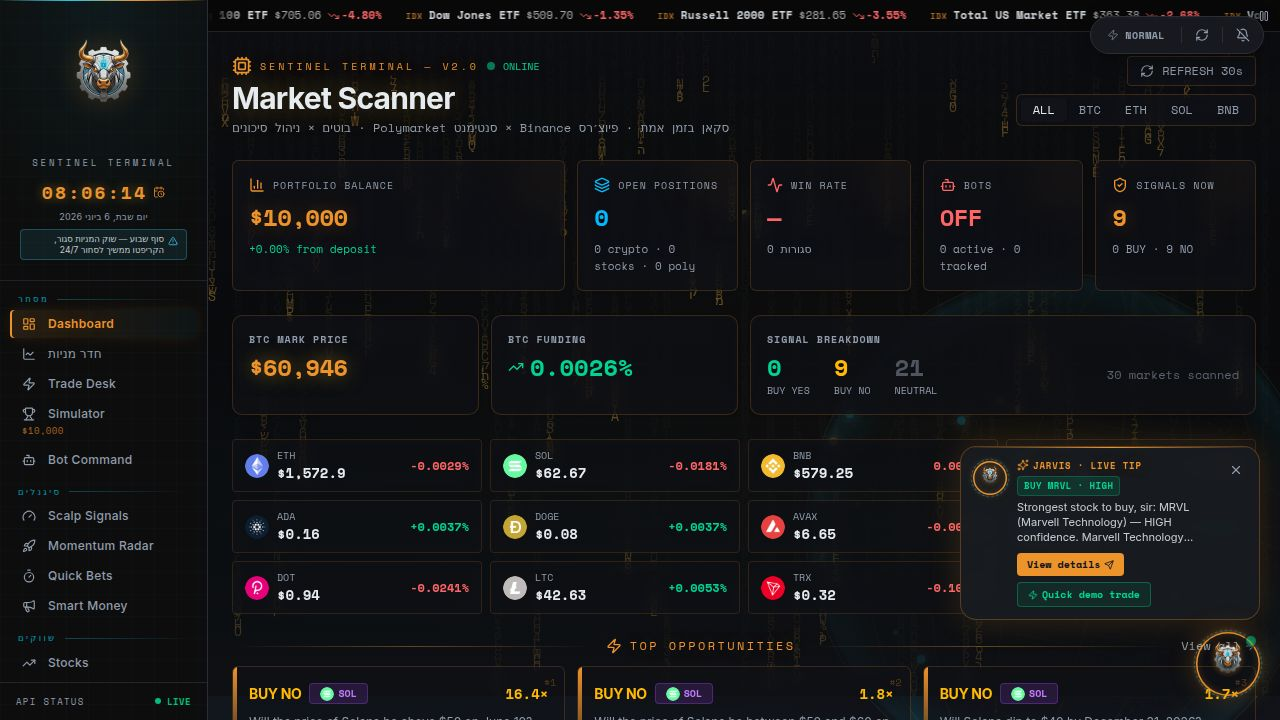
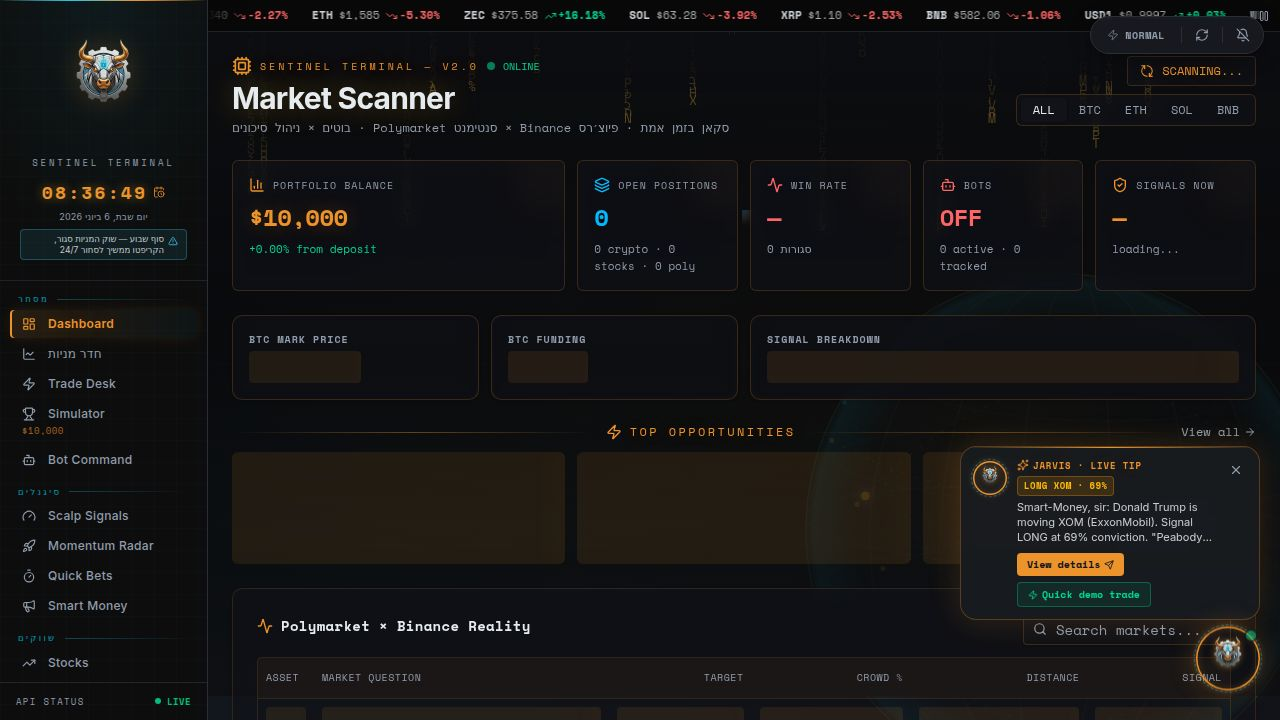
Add global controls for bot leverage and investment amounts
Implement global leverage and fixed investment amount settings across all bots, along with a simplified boost button, by updating context and engine logic and modifying the UI on the bots page.

Replit-Commit-Author: Agent
Replit-Commit-Session-Id: bf375281-ba89-49a9-b75c-c68e906c7744
Replit-Commit-Checkpoint-Type: full_checkpoint
Replit-Commit-Event-Id: c1daac54-1b40-4f2d-9088-65d8dc98b0cd
Replit-Commit-Screenshot-Url: https://storage.googleapis.com/screenshot-production-us-central1/078159b9-df19-4eea-b399-6c4569ff1430/bf375281-ba89-49a9-b75c-c68e906c7744/0tH4NWX
Replit-Helium-Checkpoint-Created: true

diff --git a/artifacts/crypto-arb/src/pages/bots.tsx b/artifacts/crypto-arb/src/pages/bots.tsx
@@ -392,46 +392,31 @@ export default function Bots() {
             <Sparkles className="h-4 w-4" />
             {autoPilotOn ? "אוטומטי פעיל" : "אוטומטי"}
           </Button>
+          <Button
+            onClick={() => boostActive ? stopBoost() : startBoost(settings.boostDurationMin * 60_000)}
+            className="gap-2 font-mono font-bold"
+            variant={boostActive ? "default" : "outline"}
+            aria-pressed={boostActive}
+            title={boostActive ? "מכבה את מהירות האור" : "מפעיל את כל הבוטים במצב מסחר מהיר"}
+            style={boostActive ? { boxShadow: "0 0 18px hsl(43 74% 52% / 0.5)" } : undefined}
+          >
+            <Zap className="h-4 w-4" />
+            {boostActive ? "מהירות האור פעילה" : "מהירות האור"}
+          </Button>
           {boostActive ? (
-            <div
-              className="flex items-center gap-2 rounded-md border px-3 py-1.5 animate-pulse"
-              style={{ borderColor: "hsl(43 74% 52% / 0.6)", background: "hsl(43 74% 52% / 0.12)" }}
-            >
-              <Zap className="h-4 w-4 text-primary" />
-              <span className="font-mono text-base font-bold text-primary tabular-nums">{boostClock}</span>
-              <span className="text-[10px] text-muted-foreground" dir="rtl">בוסט פעיל</span>
-              <Button
-                size="sm"
-                variant="ghost"
-                className="h-6 px-2 text-[10px] gap-1"
-                onClick={stopBoost}
-              >
-                <Square className="h-3 w-3" /> עצור
-              </Button>
-            </div>
+            <span className="font-mono text-base font-bold text-primary tabular-nums">{boostClock}</span>
           ) : (
-            <div className="flex items-center gap-1.5">
-              <Button
-                onClick={() => startBoost(settings.boostDurationMin * 60_000)}
-                variant="outline"
-                className="gap-2 font-mono border-primary/60 text-primary hover:bg-primary/10"
-                title={`מפעיל את כל הבוטים במצב מסחר מהיר ל-${boostDurationLabel(settings.boostDurationMin)}`}
-              >
-                <Zap className="h-4 w-4" />
-                בוסט · {boostDurationLabel(settings.boostDurationMin)}
-              </Button>
-              <select
-                value={settings.boostDurationMin}
-                onChange={(e) => update({ boostDurationMin: Number(e.target.value) })}
-                className="h-9 rounded-md border border-primary/40 bg-background/60 px-2 text-xs font-mono text-primary focus:outline-none focus:ring-1 focus:ring-primary/50"
-                aria-label="Boost duration"
-                title="משך הבוסט"
-              >
-                {BOOST_PRESETS.map((m) => (
-                  <option key={m} value={m}>{boostDurationLabel(m)}</option>
-                ))}
-              </select>
-            </div>
+            <select
+              value={settings.boostDurationMin}
+              onChange={(e) => update({ boostDurationMin: Number(e.target.value) })}
+              className="h-9 rounded-md border border-primary/40 bg-background/60 px-2 text-xs font-mono text-primary focus:outline-none focus:ring-1 focus:ring-primary/50"
+              aria-label="Boost duration"
+              title="משך הבוסט"
+            >
+              {BOOST_PRESETS.map((m) => (
+                <option key={m} value={m}>{boostDurationLabel(m)}</option>
+              ))}
+            </select>
           )}
           <Button
             onClick={() => armAll(!anyOn)}
@@ -441,15 +426,6 @@ export default function Bots() {
           >
             <Power className="h-4 w-4" />
             {anyOn ? "כבה הכול" : "הפעל הכול"}
-          </Button>
-          <Button
-            onClick={cancelLightSpeed}
-            variant="outline"
-            className="gap-2 font-mono border-primary/60 text-primary hover:bg-primary/10"
-            title="ביטול מהירות האור: הבוטים ממשיכים לסחור בקצב רגיל ושקול (לא עוצר את המסחר)"
-          >
-            <Gauge className="h-4 w-4" />
-            ביטול מהירות האור
           </Button>
           <Button
             onClick={emergencyStop}
@@ -910,6 +886,90 @@ export default function Bots() {
           </section>
         );
       })()}
+
+      {/* ── Global fleet overrides ── */}
+      <section className="rounded-lg border p-4" style={{ borderColor: "hsl(43 74% 52% / 0.35)", background: "hsl(43 74% 52% / 0.04)" }}>
+        <div className="flex items-start justify-between gap-3">
+          <div className="flex items-start gap-3">
+            <div className="h-9 w-9 rounded-md bg-primary/15 flex items-center justify-center shrink-0">
+              <Layers className="h-4 w-4 text-primary" />
+            </div>
+            <div>
+              <h2 className="text-sm font-semibold tracking-wide">הגדרות גלובליות לכל הבוטים</h2>
+              <p className="text-[11px] text-muted-foreground" dir="rtl">
+                מינוף וסכום השקעה אחיד לכל הבוטים בבת אחת. הגדרות האלה מופעלות את ההגדרות המקומיות של כל בוט.
+                {settings.dynamicCapitalEnabled && <span className="text-amber-400 font-semibold"> (מושבת בזמן שהמנהל הדינמי פעיל.)</span>}
+              </p>
+            </div>
+          </div>
+        </div>
+
+        {/* Global leverage */}
+        <div className="mt-3 rounded-md border border-border/40 bg-background/40 p-3" dir="rtl">
+          <div className="flex items-center justify-between gap-2 mb-2">
+            <div className="flex items-center gap-2">
+              <span className="text-xs font-semibold">מינוף גלובלי</span>
+              <span className="font-mono text-sm font-bold text-primary">{settings.globalLeverage}x</span>
+            </div>
+            <Switch
+              checked={settings.globalLeverageEnabled}
+              onCheckedChange={(v) => update({ globalLeverageEnabled: v })}
+              aria-label="Toggle global leverage"
+              disabled={settings.dynamicCapitalEnabled}
+            />
+          </div>
+          <Slider
+            value={[settings.globalLeverage]}
+            min={1}
+            max={10}
+            step={1}
+            onValueChange={([v]) => update({ globalLeverage: v })}
+            disabled={!settings.globalLeverageEnabled || settings.dynamicCapitalEnabled}
+            className="w-full"
+            aria-label="Global leverage"
+          />
+          <p className="mt-2 text-[10px] text-muted-foreground">
+            {settings.globalLeverageEnabled
+              ? `כל הבוטים סוחרים במינוף ${settings.globalLeverage}x. ההגדרות האישיות של כל בוט מושבתות זמנית.`
+              : "כל בוט משתמש בהגדרת המינוף של עצמו."}
+          </p>
+        </div>
+
+        {/* Fixed amount */}
+        <div className="mt-3 rounded-md border border-border/40 bg-background/40 p-3" dir="rtl">
+          <div className="flex items-center justify-between gap-2 mb-2">
+            <div className="flex items-center gap-2">
+              <span className="text-xs font-semibold">סכום השקעה קבוע</span>
+              <span className="font-mono text-sm font-bold text-primary">${settings.fixedAmount}</span>
+            </div>
+            <Switch
+              checked={settings.fixedAmountEnabled}
+              onCheckedChange={(v) => update({ fixedAmountEnabled: v })}
+              aria-label="Toggle fixed amount"
+              disabled={settings.dynamicCapitalEnabled}
+            />
+          </div>
+          <div className="flex items-center gap-2">
+            <span className="text-xs font-mono text-muted-foreground">$</span>
+            <Input
+              type="number"
+              min={10}
+              max={10000}
+              step={10}
+              value={settings.fixedAmount}
+              onChange={(e) => update({ fixedAmount: Math.max(10, Math.min(10000, Number(e.target.value) || 10)) })}
+              disabled={!settings.fixedAmountEnabled || settings.dynamicCapitalEnabled}
+              className="h-8 font-mono text-sm bg-background/60"
+              aria-label="Fixed amount USD"
+            />
+          </div>
+          <p className="mt-2 text-[10px] text-muted-foreground">
+            {settings.fixedAmountEnabled
+              ? `כל הבוטים משקיעים $${settings.fixedAmount} לעסקה. ההגדרות האישיות של כל בוט מושבתות זמנית.`
+              : "כל בוט משתמש בהגדרת הסכום של עצמו."}
+          </p>
+        </div>
+      </section>
 
       {/* Adaptive Manager */}
       <section className="rounded-lg border p-4" style={{ borderColor: "hsl(32 84% 55% / 0.35)", background: "hsl(32 84% 55% / 0.04)" }}>

diff --git a/artifacts/crypto-arb/src/contexts/autotrader-context.tsx b/artifacts/crypto-arb/src/contexts/autotrader-context.tsx
@@ -206,6 +206,38 @@ export function computeDynamicSizing(
 }
 
 /**
+ * Resolve the effective leverage and margin for any bot, respecting the
+ * precedence: dynamic capital (Account Manager) > global overrides > per-bot
+ * static settings.
+ *
+ * Engines should call this instead of reading `settings.marginPerTrade` /
+ * `settings.leverage` directly. The `botId` selects the correct per-bot static
+ * fallback when neither dynamic capital nor global overrides are active.
+ */
+export function resolveSizing(
+  settings: AutoTraderSettings,
+  cash: number,
+  totalDeposited: number,
+  tradeHistory: { pnl: number }[],
+  botId: "scalp" | "momentum" | "dipbuyer" | "breakout" | "dca" | "stocks" | "poly",
+): { margin: number; leverage: number; recoveryMode: boolean } {
+  if (settings.dynamicCapitalEnabled) {
+    return computeDynamicSizing(cash, totalDeposited, tradeHistory, settings.cashFloorPct);
+  }
+  let leverage = settings.leverage;
+  let margin = settings.marginPerTrade;
+  if (botId === "dipbuyer" || botId === "breakout") leverage = settings.newBotLeverage;
+  if (botId === "dipbuyer") margin = settings.dipStake;
+  else if (botId === "breakout") margin = settings.breakoutStake;
+  else if (botId === "dca") margin = settings.dcaStake;
+  else if (botId === "stocks") margin = settings.stockStakePerTrade;
+  else if (botId === "poly") margin = settings.polyStakePerBet;
+  if (settings.globalLeverageEnabled) leverage = settings.globalLeverage;
+  if (settings.fixedAmountEnabled) margin = settings.fixedAmount;
+  return { margin, leverage, recoveryMode: false };
+}
+
+/**
  * Resolved knobs for one trading-intensity gear (1-5). These multipliers are
  * applied uniformly by every bot engine so the whole fleet shifts together,
  * economy↔sport style. Boost mode overrides this with its own max cadence.
@@ -408,6 +440,16 @@ export interface AutoTraderSettings {
   /** Close a bet once its value is down this % from entry (irreversible-bet exit). */
   polyStopLossPct: number;
 
+  /* ── Global fleet-wide overrides ── */
+  /** When on, all bots use the same fleet-wide leverage (globalLeverage). */
+  globalLeverageEnabled: boolean;
+  /** Fleet-wide leverage override applied to every bot when enabled. */
+  globalLeverage: number;
+  /** When on, every bot stakes the same fixed amount (fixedAmount) per trade. */
+  fixedAmountEnabled: boolean;
+  /** Fixed USD amount every bot commits when fixedAmountEnabled is true. */
+  fixedAmount: number;
+
   /* ── Adaptive manager + 3 additional simulator bots ── */
   /** Let the manager nudge each new bot's selectivity from its own track record. */
   adaptiveEnabled: boolean;
@@ -527,6 +569,10 @@ export const DEFAULT_SETTINGS: AutoTraderSettings = {
   polyStopLossPct: 50,
 
   adaptiveEnabled: true,
+  globalLeverageEnabled: false,
+  globalLeverage: 3,
+  fixedAmountEnabled: false,
+  fixedAmount: 100,
   newBotLeverage: 3,
 
   dipEnabled: false,

diff --git a/artifacts/crypto-arb/src/components/extra-bots-engine.tsx b/artifacts/crypto-arb/src/components/extra-bots-engine.tsx
@@ -5,7 +5,7 @@ import {
 } from "@workspace/api-client-react";
 import type { CoinTicker, StockQuote } from "@workspace/api-client-react";
 import { usePortfolio } from "@/contexts/portfolio-context";
-import { useAutoTrader, computeDynamicSizing, cashReserveFloor, intensityProfile, type NewBotId } from "@/contexts/autotrader-context";
+import { useAutoTrader, resolveSizing, cashReserveFloor, intensityProfile, type NewBotId } from "@/contexts/autotrader-context";
 import { useLivePrices } from "@/contexts/live-price-context";
 import { recommendLevels } from "@/lib/recommend-levels";
 import { toast } from "@/hooks/use-toast";
@@ -139,12 +139,12 @@ export function ExtraBotsEngine() {
 
   // ── Dip Buyer — buys the biggest crypto 24h losers (contrarian LONG) ──
   useEffect(() => {
-    if (!settings.dipEnabled || !(settings.dipStake > 0)) return;
+    if (!settings.dipEnabled) return;
     if (pausedBots.has("dipbuyer")) return;
-    const dynSizing = settings.dynamicCapitalEnabled
-      ? computeDynamicSizing(cash, totalDeposited, tradeHistory, settings.cashFloorPct) : null;
-    const lev = Math.max(1, dynSizing ? dynSizing.leverage : settings.newBotLeverage);
-    const dipStake = dynSizing ? dynSizing.margin : settings.dipStake;
+    const sizing = resolveSizing(settings, cash, totalDeposited, tradeHistory, "dipbuyer");
+    const lev = Math.max(1, sizing.leverage);
+    const dipStake = sizing.margin;
+    if (!(dipStake > 0)) return;
     const cashFloor = cashReserveFloor(totalDeposited, settings.cashFloorPct);
     const edge = getBotStat("dipbuyer").edge;
     // Intensity gear: calm demands a deeper dip; turbo steps in sooner.
@@ -185,12 +185,12 @@ export function ExtraBotsEngine() {
 
   // ── Breakout Hunter — buys the strongest crypto 24h gainers (LONG) ──
   useEffect(() => {
-    if (!settings.breakoutEnabled || !(settings.breakoutStake > 0)) return;
+    if (!settings.breakoutEnabled) return;
     if (pausedBots.has("breakout")) return;
-    const dynSizingB = settings.dynamicCapitalEnabled
-      ? computeDynamicSizing(cash, totalDeposited, tradeHistory, settings.cashFloorPct) : null;
-    const lev = Math.max(1, dynSizingB ? dynSizingB.leverage : settings.newBotLeverage);
-    const breakoutStake = dynSizingB ? dynSizingB.margin : settings.breakoutStake;
+    const sizing = resolveSizing(settings, cash, totalDeposited, tradeHistory, "breakout");
+    const lev = Math.max(1, sizing.leverage);
+    const breakoutStake = sizing.margin;
+    if (!(breakoutStake > 0)) return;
     const cashFloor = cashReserveFloor(totalDeposited, settings.cashFloorPct);
     const edge = getBotStat("breakout").edge;
     // Intensity gear: calm demands a stronger breakout; turbo chases earlier.
@@ -231,7 +231,7 @@ export function ExtraBotsEngine() {
 
   // ── Blue-Chip DCA — periodic small large-cap accumulation buys ──
   useEffect(() => {
-    if (!settings.dcaEnabled || !(settings.dcaStake > 0)) return;
+    if (!settings.dcaEnabled) return;
     if (pausedBots.has("dca")) return;
     const now = Date.now();
     // Boost mode buys on a tight 10s cadence; otherwise the intensity gear scales
@@ -240,9 +240,8 @@ export function ExtraBotsEngine() {
       ? 10_000
       : Math.max(5_000, (Math.max(1, settings.dcaIntervalMin) * 60_000) / prof.tradeRate);
     if (now - lastDcaRef.current < intervalMs) return;
-    const dcaStake = settings.dynamicCapitalEnabled
-      ? computeDynamicSizing(cash, totalDeposited, tradeHistory, settings.cashFloorPct).margin
-      : settings.dcaStake;
+    const sizing = resolveSizing(settings, cash, totalDeposited, tradeHistory, "dca");
+    const dcaStake = sizing.margin;
     const cashFloor = cashReserveFloor(totalDeposited, settings.cashFloorPct);
 
     const dcaMaxOpen = Math.max(1, Math.round(settings.dcaMaxOpen * prof.maxOpenMult));

diff --git a/artifacts/crypto-arb/src/components/autotrader-engine.tsx b/artifacts/crypto-arb/src/components/autotrader-engine.tsx
@@ -11,7 +11,7 @@ import {
 import type { ScalpSignal, MomentumCoin, PolymarketMarket, StockRecommendation, InfluencerSignal, StockQuote } from "@workspace/api-client-react";
 import { usePortfolio, type TrailConfig } from "@/contexts/portfolio-context";
 import { recommendLevels } from "@/lib/recommend-levels";
-import { useAutoTrader, computeDynamicSizing, cashReserveFloor, intensityProfile, alphaAdjust, NEUTRAL_ALPHA, ALPHA_COMMIT_PCT, ALPHA_STRONG_PCT, type AlphaState, type ScalpConfidence } from "@/contexts/autotrader-context";
+import { useAutoTrader, resolveSizing, cashReserveFloor, intensityProfile, alphaAdjust, NEUTRAL_ALPHA, ALPHA_COMMIT_PCT, ALPHA_STRONG_PCT, type AlphaState, type ScalpConfidence } from "@/contexts/autotrader-context";
 import { useFavorites } from "@/contexts/favorites-context";
 import { useLivePrices } from "@/contexts/live-price-context";
 import { toast } from "@/hooks/use-toast";
@@ -431,11 +431,9 @@ export function AutoTraderEngine() {
   // Auto-trade evaluation.
   useEffect(() => {
     if (!settings.enabled) return;
-    const dynSizing = settings.dynamicCapitalEnabled
-      ? computeDynamicSizing(cash, totalDeposited, tradeHistory, settings.cashFloorPct)
-      : null;
-    const margin = dynSizing ? dynSizing.margin : settings.marginPerTrade;
-    const effectiveLeverage = dynSizing ? dynSizing.leverage : settings.leverage;
+    const sizing = resolveSizing(settings, cash, totalDeposited, tradeHistory, "scalp");
+    const margin = sizing.margin;
+    const effectiveLeverage = sizing.leverage;
     if (!(margin > 0) || !(effectiveLeverage >= 1)) return;
     // Account Manager cash reserve: never commit below the protected floor.
     const cashFloor = cashReserveFloor(totalDeposited, settings.cashFloorPct);
@@ -571,10 +569,8 @@ export function AutoTraderEngine() {
   // SHORT paper positions for the strongest agreeing setups (risk-gated).
   useEffect(() => {
     if (!settings.stocksEnabled) return;
-    const dynStake = settings.dynamicCapitalEnabled
-      ? computeDynamicSizing(cash, totalDeposited, tradeHistory, settings.cashFloorPct).margin
-      : null;
-    const stake = dynStake ?? settings.stockStakePerTrade;
+    const sizing = resolveSizing(settings, cash, totalDeposited, tradeHistory, "stocks");
+    const stake = sizing.margin;
     if (!(stake > 0)) return;
     // Account Manager cash reserve: never commit below the protected floor.
     const cashFloor = cashReserveFloor(totalDeposited, settings.cashFloorPct);
@@ -746,9 +742,8 @@ export function AutoTraderEngine() {
 
     // Auto-Pilot / Account-Manager: size each bet dynamically from portfolio
     // health; otherwise use the user's fixed stake.
-    const polyStake = settings.dynamicCapitalEnabled
-      ? computeDynamicSizing(cash, totalDeposited, tradeHistory, settings.cashFloorPct).margin
-      : settings.polyStakePerBet;
+    const sizing = resolveSizing(settings, cash, totalDeposited, tradeHistory, "poly");
+    const polyStake = sizing.margin;
     if (!(polyStake > 0)) return;
     // Account Manager cash reserve: never commit below the protected floor.
     const cashFloor = cashReserveFloor(totalDeposited, settings.cashFloorPct);